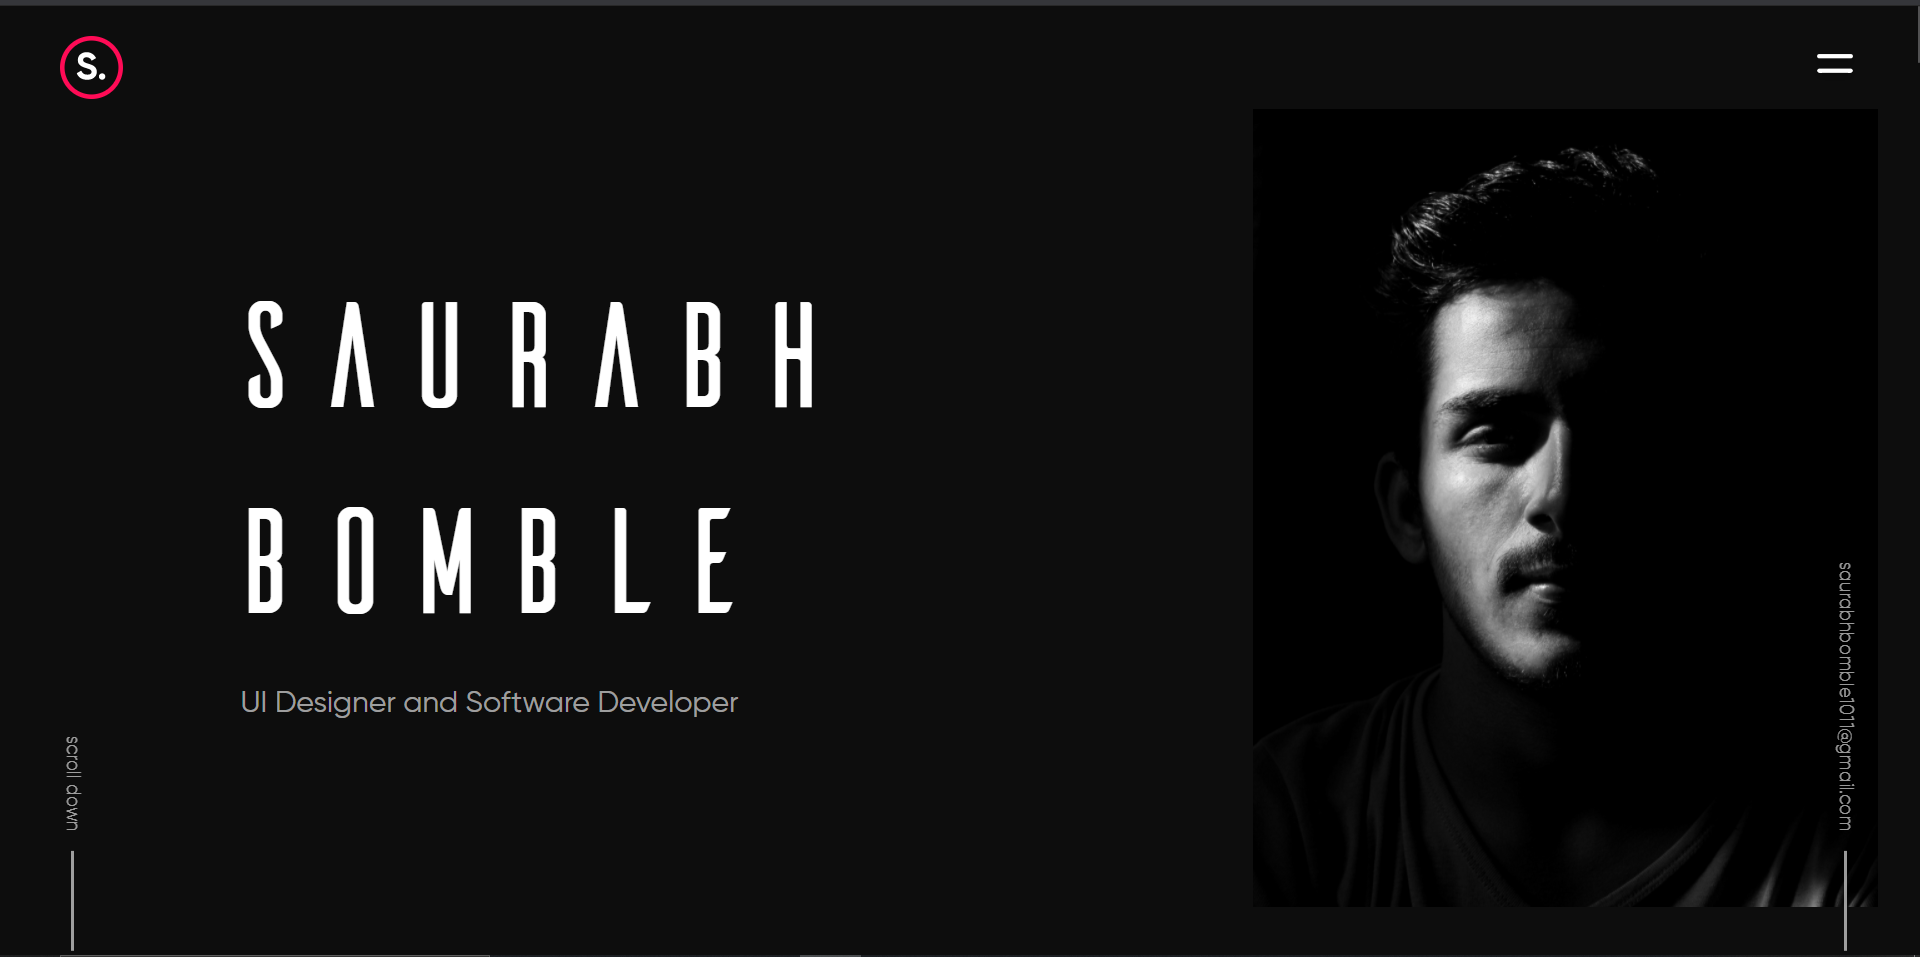
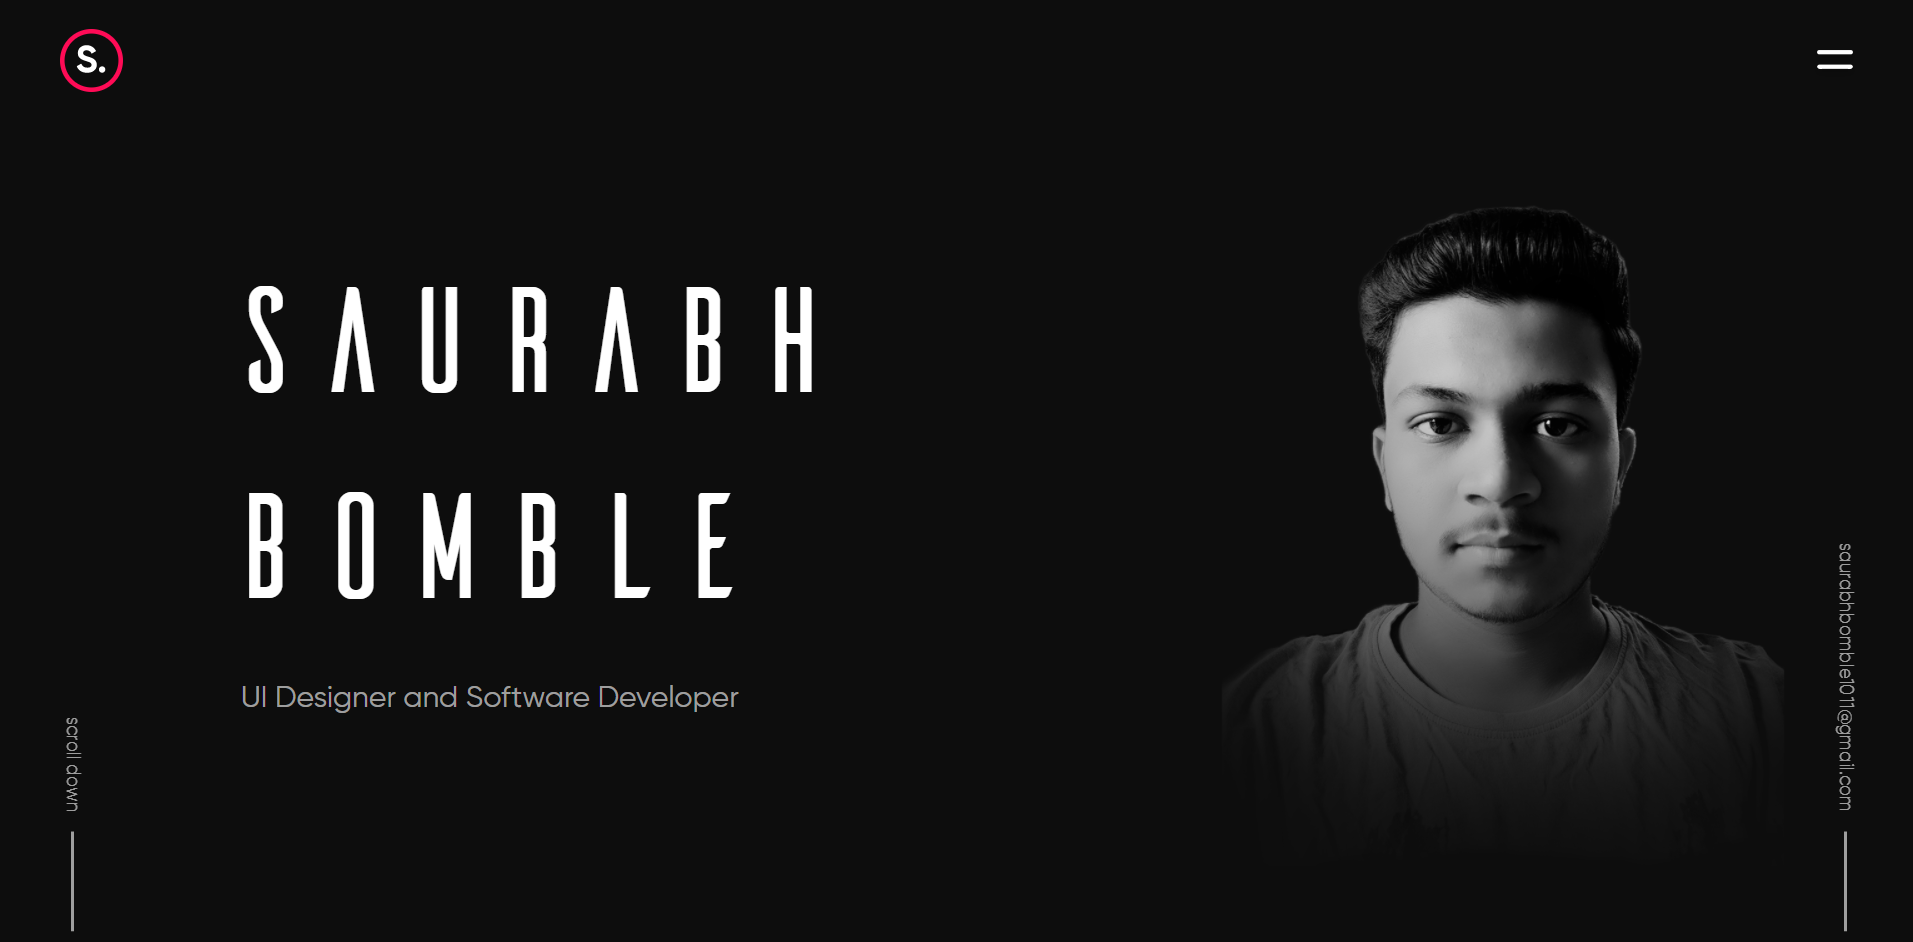
Portfolio 2021 v1

diff --git a/client-v1/src/screens/About/About.tsx b/client-v1/src/screens/About/About.tsx
@@ -1,28 +1,32 @@
-import React, { useEffect } from 'react';
-import { avatarImg, glassGreenBallSvg, glassRedBallSvg } from '../../utills/constants';
+import React, { useEffect } from "react"
+import {
+  avatarImg,
+  glassGreenBallSvg,
+  glassRedBallSvg,
+} from "../../utills/constants"
 
-import { ArrowDownCircle, MapPin } from 'react-feather';
-import { useInView } from 'react-intersection-observer';
-import { motion, useAnimation } from 'framer-motion';
+import { ArrowDownCircle, MapPin } from "react-feather"
+import { useInView } from "react-intersection-observer"
+import { motion, useAnimation } from "framer-motion"
 import {
   pageTitleAnimation,
   staggerTransition,
   staggerWrapper,
   transitions,
-} from '../../utills/animations';
+} from "../../utills/animations"
 
 export const About = () => {
-  const { ref, inView } = useInView();
+  const { ref, inView } = useInView()
 
-  const wrapperController = useAnimation();
-  const cardWrapper = useAnimation();
+  const wrapperController = useAnimation()
+  const cardWrapper = useAnimation()
 
   useEffect(() => {
     if (inView) {
-      wrapperController.start('animate');
-      cardWrapper.start('animate');
+      wrapperController.start("animate")
+      cardWrapper.start("animate")
     }
-  }, [inView]);
+  }, [inView])
 
   const fadeUpAnimation = (duration = 0.8) => ({
     initial: {
@@ -34,7 +38,7 @@ export const About = () => {
       opacity: 1,
       transition: { ...transitions, duration },
     },
-  });
+  })
 
   const paraTagAnimation = {
     initial: {
@@ -46,7 +50,7 @@ export const About = () => {
       opacity: 1,
       transition: { ...transitions, duration: 0.8 },
     },
-  };
+  }
 
   return (
     <motion.div
@@ -58,31 +62,53 @@ export const About = () => {
       ref={ref}
     >
       <div className="green-blurred-ball"></div>
-      <motion.h2 className="font-brand90-B" variants={pageTitleAnimation(undefined, 1)}>
+      <motion.h2
+        className="font-brand90-B"
+        variants={pageTitleAnimation(undefined, 1)}
+      >
         whoami
       </motion.h2>
       <motion.div className="content-wrapper">
         <motion.div className="left" transition={staggerTransition(0.4)}>
-          <motion.h6 className="font-contact-tags tags" variants={paraTagAnimation}>
-            {'<p>'}
+          <motion.h6
+            className="font-contact-tags tags"
+            variants={paraTagAnimation}
+          >
+            {"<p>"}
           </motion.h6>
-          <motion.div className="content" variants={{}} transition={staggerTransition(0.3)}>
+          <motion.div
+            className="content"
+            variants={{}}
+            transition={staggerTransition(0.3)}
+          >
             <motion.p className="font-medium17-R" variants={fadeUpAnimation()}>
-              Hi, <span className="title font-intro24-B"> I'M SAURABH BOMBLE</span>
+              Hi,{" "}
+              <span className="title font-intro24-B"> I'M SAURABH BOMBLE</span>
             </motion.p>
-            <motion.p className="main-text font-medium17-M" variants={fadeUpAnimation()}>
-              Software designer and developer based in Pune, India. I am currently in my final year
-              of computer engineering and have a strong interest in UI design, animations, and
-              software development.
+            <motion.p
+              className="main-text font-medium17-M"
+              variants={fadeUpAnimation()}
+            >
+              Software designer and developer based in Pune, India. I am
+              currently in my final year of computer engineering and have a
+              strong interest in UI design, animations, and software
+              development.
             </motion.p>
-            <motion.p className="main-text font-medium17-M" variants={fadeUpAnimation()}>
-              I began learning coding back in 2019 with web development and have enjoyed working on
-              both frontend and backend parts since then. Currently, I'm concentrating on the
-              performance, scalability, and UI/UX aspects of apps.
+            <motion.p
+              className="main-text font-medium17-M"
+              variants={fadeUpAnimation()}
+            >
+              I began learning coding back in 2019 with web development and have
+              enjoyed working on both frontend and backend parts since then.
+              Currently, I'm concentrating on the performance, scalability, and
+              UI/UX aspects of apps.
             </motion.p>
           </motion.div>
-          <motion.h6 className="font-contact-tags tags" variants={paraTagAnimation}>
-            {'</p>'}
+          <motion.h6
+            className="font-contact-tags tags"
+            variants={paraTagAnimation}
+          >
+            {"</p>"}
           </motion.h6>
         </motion.div>
         <motion.div
@@ -99,10 +125,16 @@ export const About = () => {
                   variants={{}}
                   transition={{ delayChildren: 1.5, staggerChildren: 0.7 }}
                 >
-                  <motion.h3 className="font-glass-name" variants={fadeUpAnimation()}>
+                  <motion.h3
+                    className="font-glass-name"
+                    variants={fadeUpAnimation()}
+                  >
                     SAURABH ANAND BOMBLE
                   </motion.h3>
-                  <motion.h4 className="font-medium17-R" variants={fadeUpAnimation()}>
+                  <motion.h4
+                    className="font-medium17-R"
+                    variants={fadeUpAnimation()}
+                  >
                     UI/UX designer & Software developer
                   </motion.h4>
                 </motion.div>
@@ -140,5 +172,5 @@ export const About = () => {
       </motion.div>
       <div className="red-blurred-ball"></div>
     </motion.div>
-  );
-};
+  )
+}

diff --git a/client-v1/src/utills/constants.ts b/client-v1/src/utills/constants.ts
@@ -20,7 +20,7 @@ import dot from "../../static/images/components/dot.svg"
 import glassSvg from "../../static/images/glass-ui/parts/glass.svg"
 import glassRedBallSvg from "../../static/images/glass-ui/parts/red-ball.svg"
 import glassGreenBallSvg from "../../static/images/glass-ui/parts/green-ball.svg"
-import avatarImg from "../../static/images/glass-ui/parts/avatar.jpg"
+import avatarImg from "../../static/images/saurabh-avatar.png"
 
 export {
   sushantImg,
